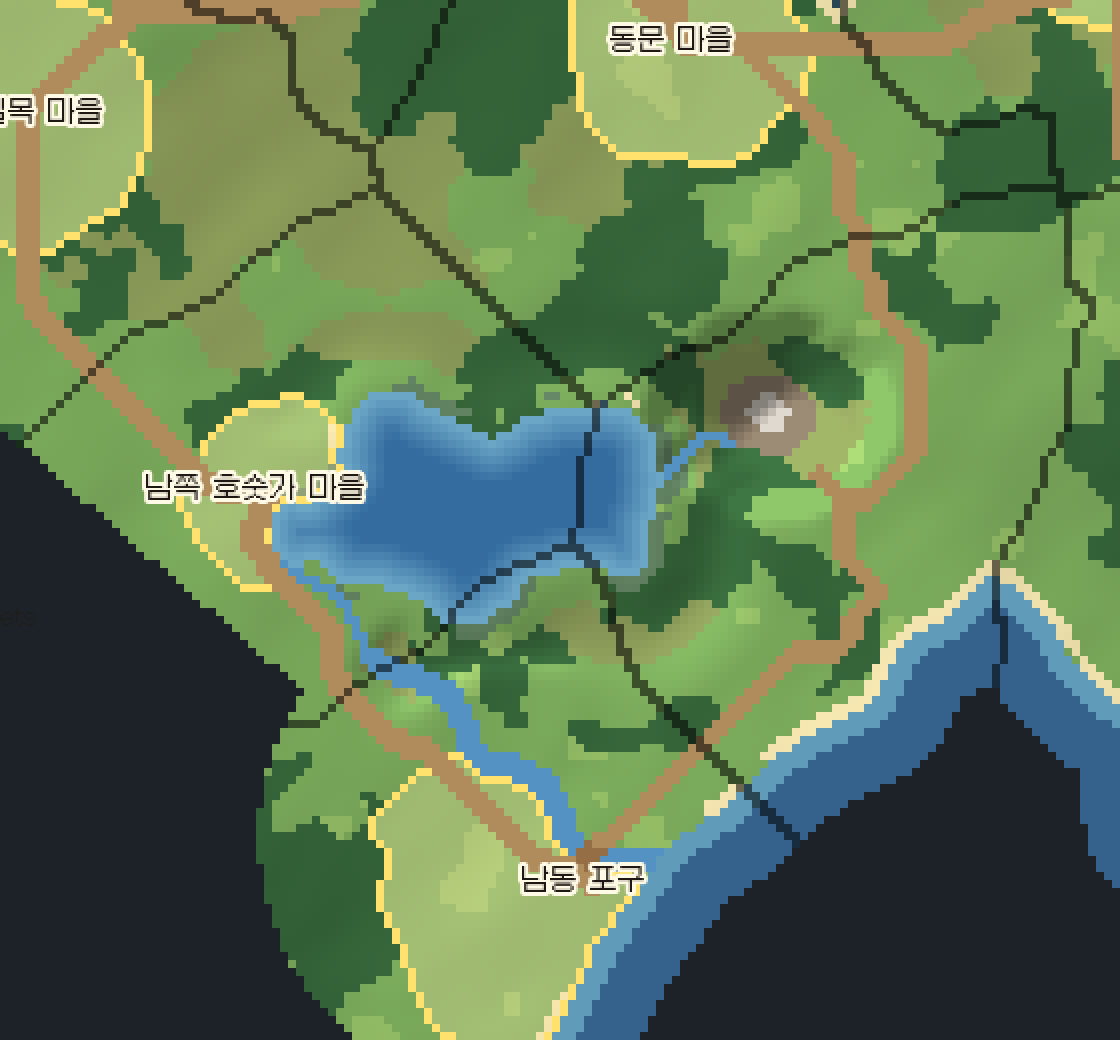
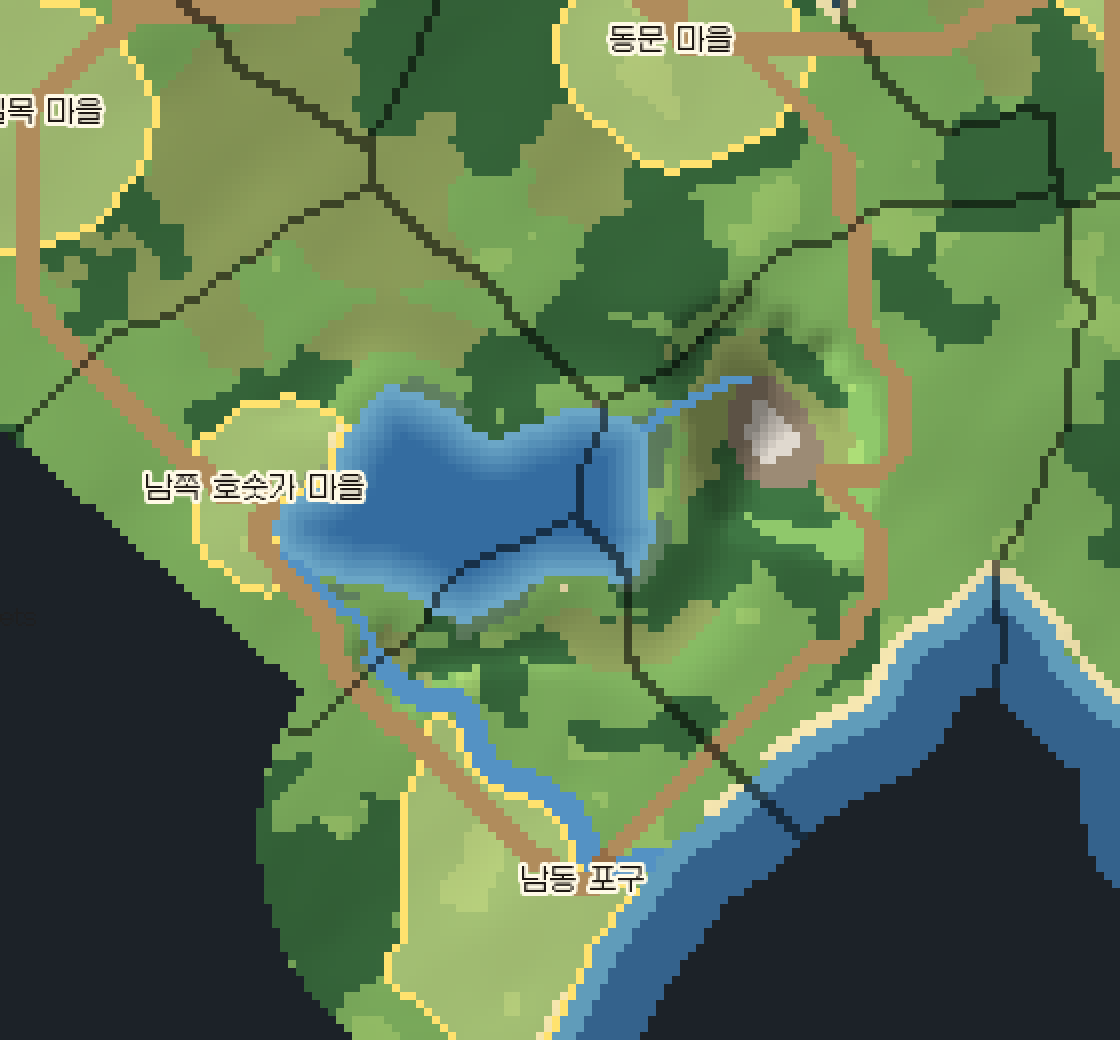
M1: 호숫가 직선 모서리 제거, 수원 산을 불규칙한 모양으로
Claude-Session: https://claude.ai/code/session_01LeGdCGGAkPbpRa1d2kF6Yd

diff --git a/Tools/WorldLayout/terrain_v3.py b/Tools/WorldLayout/terrain_v3.py
@@ -243,16 +243,22 @@ def build(layout):
         u=dx_*math.cos(ang)+dy_*math.sin(ang);v=-dx_*math.sin(ang)+dy_*math.cos(ang)
         # 좌표를 노이즈로 비틀어(도메인 워핑) 만·곶이 여러 크기로 생기게 하고, 낮은 땅일수록 물이 더 들어오게
         wy=noise((H,W),11,rng,3)-.5;wx=noise((H,W),11,rng,3)-.5;frac=noise((H,W),6,rng,4)-.5
-        u=u+9*wx;v=v+9*wy
+        u=u+13*wx;v=v+13*wy
         theta=np.arctan2(v,u);rr_=np.sqrt((u/math.sqrt(asp))**2+(v*math.sqrt(asp))**2)
         wob=1+sum(a_*np.sin((k_+2)*theta+ph[k_]) for k_,a_ in enumerate(amp))
         En=(E-E[seed])/(np.ptp(E[land])+1e-9)
         field=rr_/(r0*wob)+1.6*En+.32*frac
         # 목표 면적이 되도록 문턱값을 찾는다
         cand_=land&inner&~river
-        vals=np.sort(field[cand_&(np.sqrt(dy_**2+dx_**2)<r0*2.4)])
+        # 원형 잘림(직선 호숫가)이 생기지 않게 거리 제한은 넉넉히 두고, 먼 곳은 부드럽게 불리하게
+        dist_=np.sqrt(dy_**2+dx_**2);field=field+np.clip((dist_-r0*1.8)/(r0*.8),0,None)**2
+        reach=cand_&(dist_<r0*3.4)
+        vals=np.sort(field[reach])
         thr=vals[min(len(vals)-1,lk['area'])]
-        m=(field<thr)&cand_&(np.sqrt(dy_**2+dx_**2)<r0*2.4)
+        m=(field<thr)&reach
+        # 물가를 둥글게 다듬는다(계단·직선 모서리 제거)
+        shore_n=noise((H,W),7,rng,3)-.5   # 물가에 작은 만·곶
+        m=((ndimage.gaussian_filter(m.astype(float),2.2)+.55*shore_n)>.5)&cand_
         m=ndimage.binary_closing(ndimage.binary_opening(m),iterations=1)&cand_
         lab,n_=ndimage.label(m)
         if n_>1:m=lab==(1+int(np.argmax(ndimage.sum(np.ones_like(lab),lab,range(1,n_+1)))))
@@ -291,11 +297,15 @@ def build(layout):
         inflow=[]
         if ctr_:
             mcy,mcx=ctr_
-            wob_=noise((H,W),5,rng,3)                          # 산 가장자리를 들쭉날쭉하게
-            dr_=np.hypot(yy_-mcy,(xx_-mcx)*.85)*(1+.45*(wob_-.5))
+            # 둥근 원뿔이 되지 않게: 한쪽으로 조금 길쭉하고(능선 방향은 무작위), 좌표를 비틀어 산자락이 불규칙하게 퍼진다
+            wob_=noise((H,W),5,rng,3);wy2=noise((H,W),9,rng,3)-.5;wx2=noise((H,W),9,rng,3)-.5
+            a_m=rng.uniform(0,math.pi);du=(xx_-mcx)+6*wx2;dv=(yy_-mcy)+6*wy2
+            pu=du*math.cos(a_m)+dv*math.sin(a_m);pv=-du*math.sin(a_m)+dv*math.cos(a_m)
+            dr_=np.hypot(pu/1.45,pv*1.1)*(1+.35*(wob_-.5))
             prof=np.exp(-(dr_/4.5)**2)+.45*np.exp(-(dr_/9)**2)
             zone=(dr_<11)&east&land&~m&~river
-            elev=np.where(zone,np.maximum(elev,.55+.45*prof),elev)
+            # 산자락 높이도 노이즈로 흔들어 동심원 무늬가 보이지 않게
+            elev=np.where(zone,np.maximum(elev,.55+.45*prof*(.8+.4*wob_)),elev)
             t[zone&(dr_<9.5)&(forest_n>.33)]=FOREST;t[zone&(dr_<9.5)&(forest_n<=.33)]=HILL
             t[zone&(dr_<5.2)]=MOUNTAIN;t[zone&(dr_<2.4)]=PEAK
             lk['sourceMountain']=[round(mcx+X0,1),round(mcy+Y0,1)]
